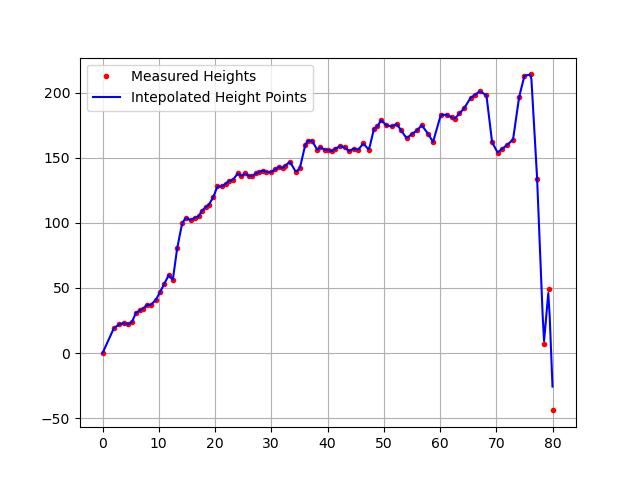
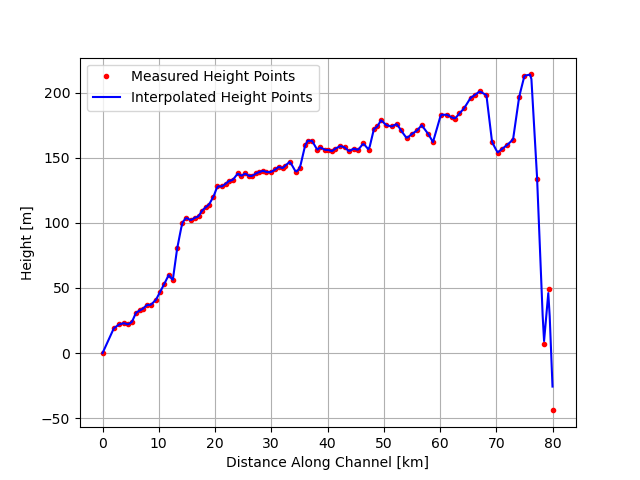
A demonstration of the Plots function in Julia

Changed region(s): [[0.3438, 0.9375, 0.6875, 1.0], [0.25, 0.125, 0.5, 0.2188], [0.0312, 0.4375, 0.0625, 0.5938]]

diff --git a/Depression/interpolation.py b/Depression/interpolation.py
@@ -10,21 +10,23 @@ delta_theta = (data[1:,1] - data[:-1, 1])*np.pi/180
 
 r = r_earth*np.sqrt(delta_phi**2 + delta_theta**2) # [km] - NOT A PERFECT EQUATION BUT AN APPROXIMATION - SEE HAVERSINE
 
-r_sum = np.cumsum(r) # Get the difference between points
-r_sum = np.append(0, r_sum) # append 0 to the list so that the range corresponds to the distance from start point
+r_sum = np.cumsum(r) # [km] Get the difference between points
+r_sum = np.append(0, r_sum) # [km] append 0 to the list so that the range corresponds to the distance from start point
 
 
-r_interp = np.arange(0, np.max(r_sum), 0.25) # Create the axis which we want our function interpolated to.
-h_interp = np.interp(r_interp, r_sum, H) # Interpolate the data with a linear interpolation
+r_interp = np.arange(0, np.max(r_sum), 0.25) #[km] Create the axis which we want our function interpolated to.
+h_interp = np.interp(r_interp, r_sum, H) # [m] Interpolate the data with a linear interpolation
 
 interpData = np.stack((r_interp, h_interp))
 np.savetxt("Depression/channel_data_interp.csv", interpData.T, delimiter=",")
 
 plt.figure()
-plt.plot(r_sum, H, 'r.', label='Measured Heights')
-plt.plot(r_interp, h_interp, 'b-', label='Intepolated Height Points')
+plt.plot(r_sum, H, 'r.', label='Measured Height Points')
+plt.plot(r_interp, h_interp, 'b-', label='Interpolated Height Points')
 plt.grid()
 plt.legend()
+plt.ylabel('Height [m]')
+plt.xlabel('Distance Along Channel [km]')
 plt.savefig('Depression/figures/interpolated_heights.png')
 plt.show()
 
